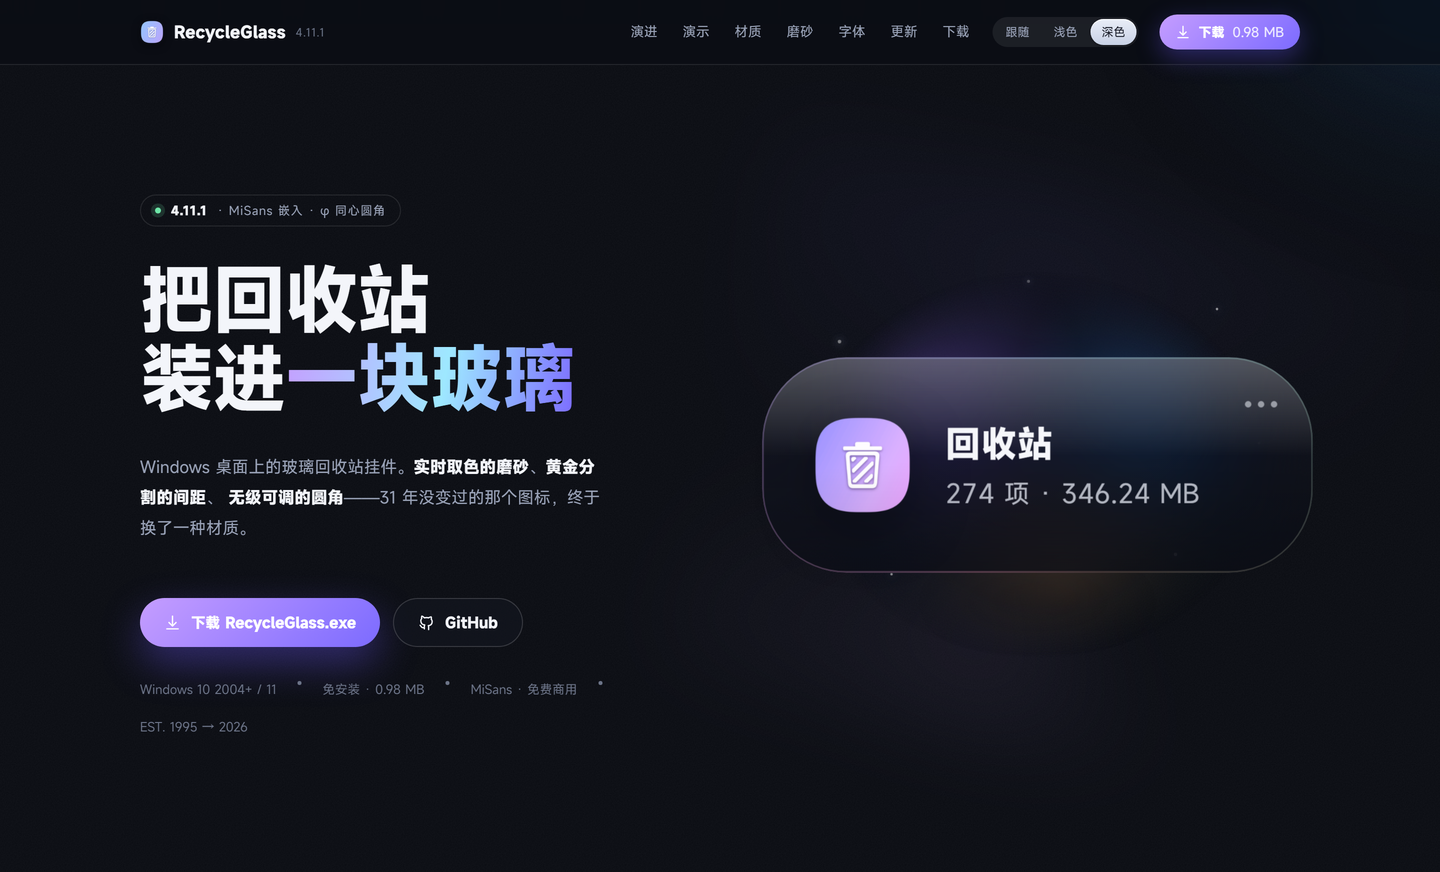
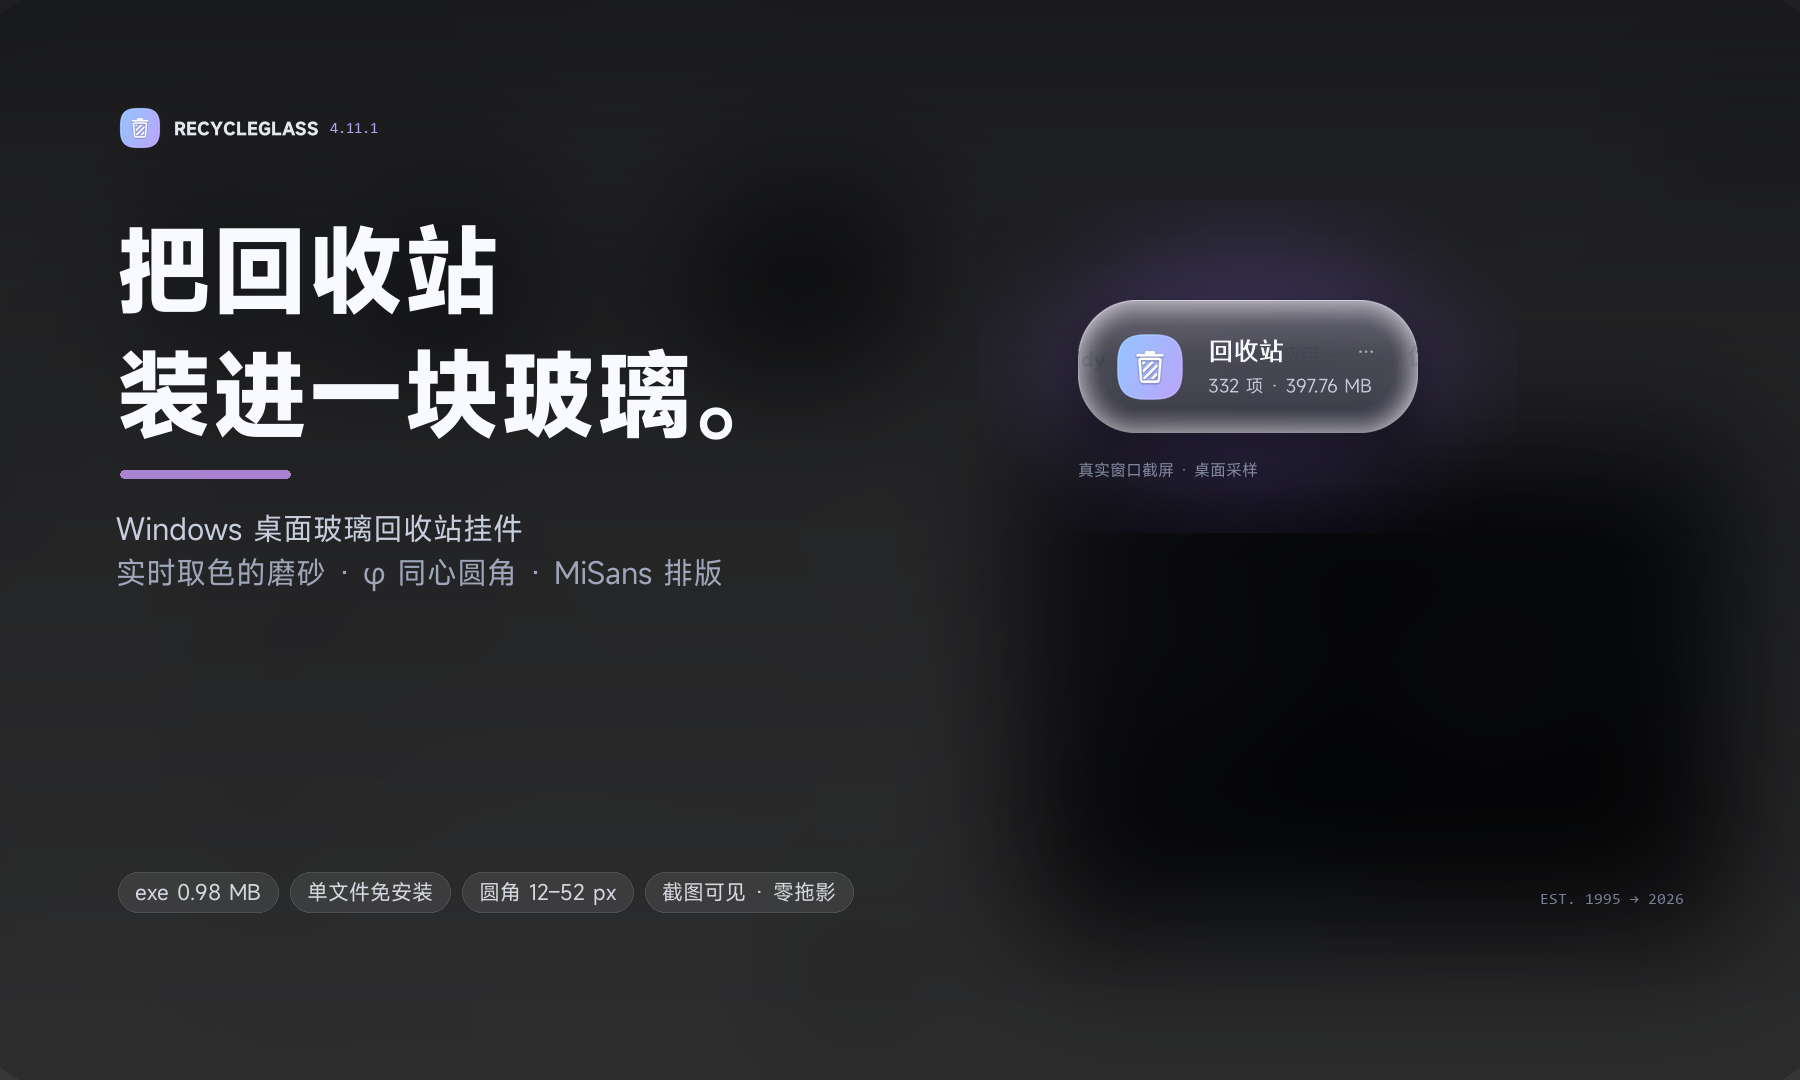
docs: 介绍图改为真机截屏 + MiSans 版式（hero/settings/states），不再是网页截图
- tools/shots4readme.py：消息驱动真实 4.11.1 打开卡片/悬停/主菜单/外观设置/
  材质与光效/清空确认，原生分辨率截取后恢复用户配置
- tools/make_readme_art.py：按窗口内边距裁切并套圆角蒙版，桌面虚化做底，
  MiSans 排版成海报（1800×1080 等），全部透明确实合成
- README 截图区同步为三张真机图；移除旧的网页截图 menu/material/frost

diff --git a/README.md b/README.md
@@ -68,18 +68,16 @@
 
 <div align="center">
 
-<img src="docs/images/hero.png" width="900" alt="RecycleGlass：把回收站装进一块玻璃">
+<img src="docs/images/hero.png" width="900" alt="RecycleGlass 4.11.1：把回收站装进一块玻璃">
 
 <br>
 
-<img src="docs/images/menu.png" width="560" alt="外观设置：主题 / 强调色 / 界面大小 / 圆角 / 图标">
-<img src="docs/images/material.png" width="560" alt="三种玻璃材质：晶体 / 极光 / 绒雾">
+<img src="docs/images/settings.png" width="860" alt="外观设置与材质与光效：真实窗口截屏">
+<img src="docs/images/states.png" width="820" alt="卡片与清空确认：真实窗口截屏">
 
 <br>
 
-<img src="docs/images/frost.png" width="760" alt="透明度 × 模糊：拉低透明度也始终保留磨砂">
-
-<sub>界面按 4.11.1 的真实渲染参数 1:1 绘制（圆角 52 px · MiSans · φ 间距）</sub>
+<sub>以上均为 4.11.1 真实窗口截屏（未做界面重绘），背景为同一桌面的虚化底</sub>
 
 </div>
 
